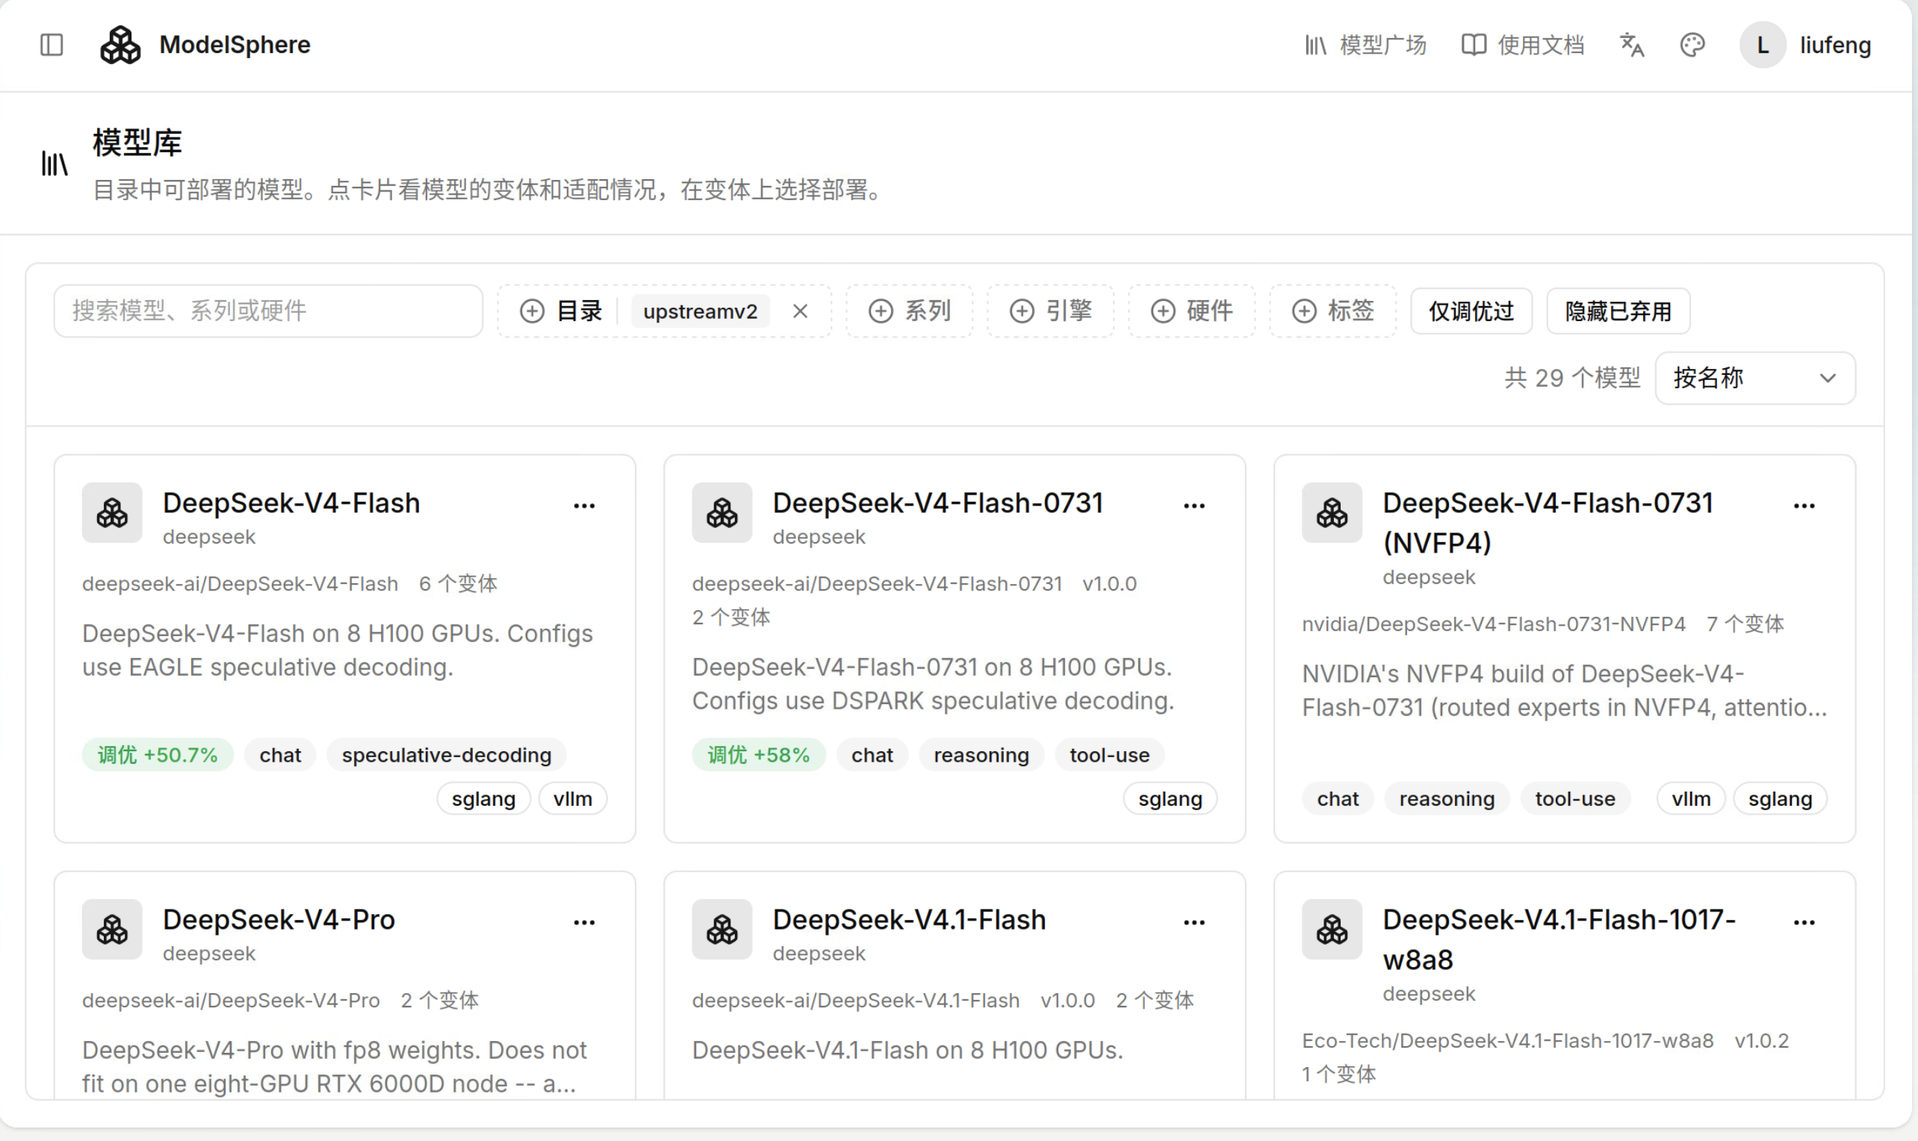
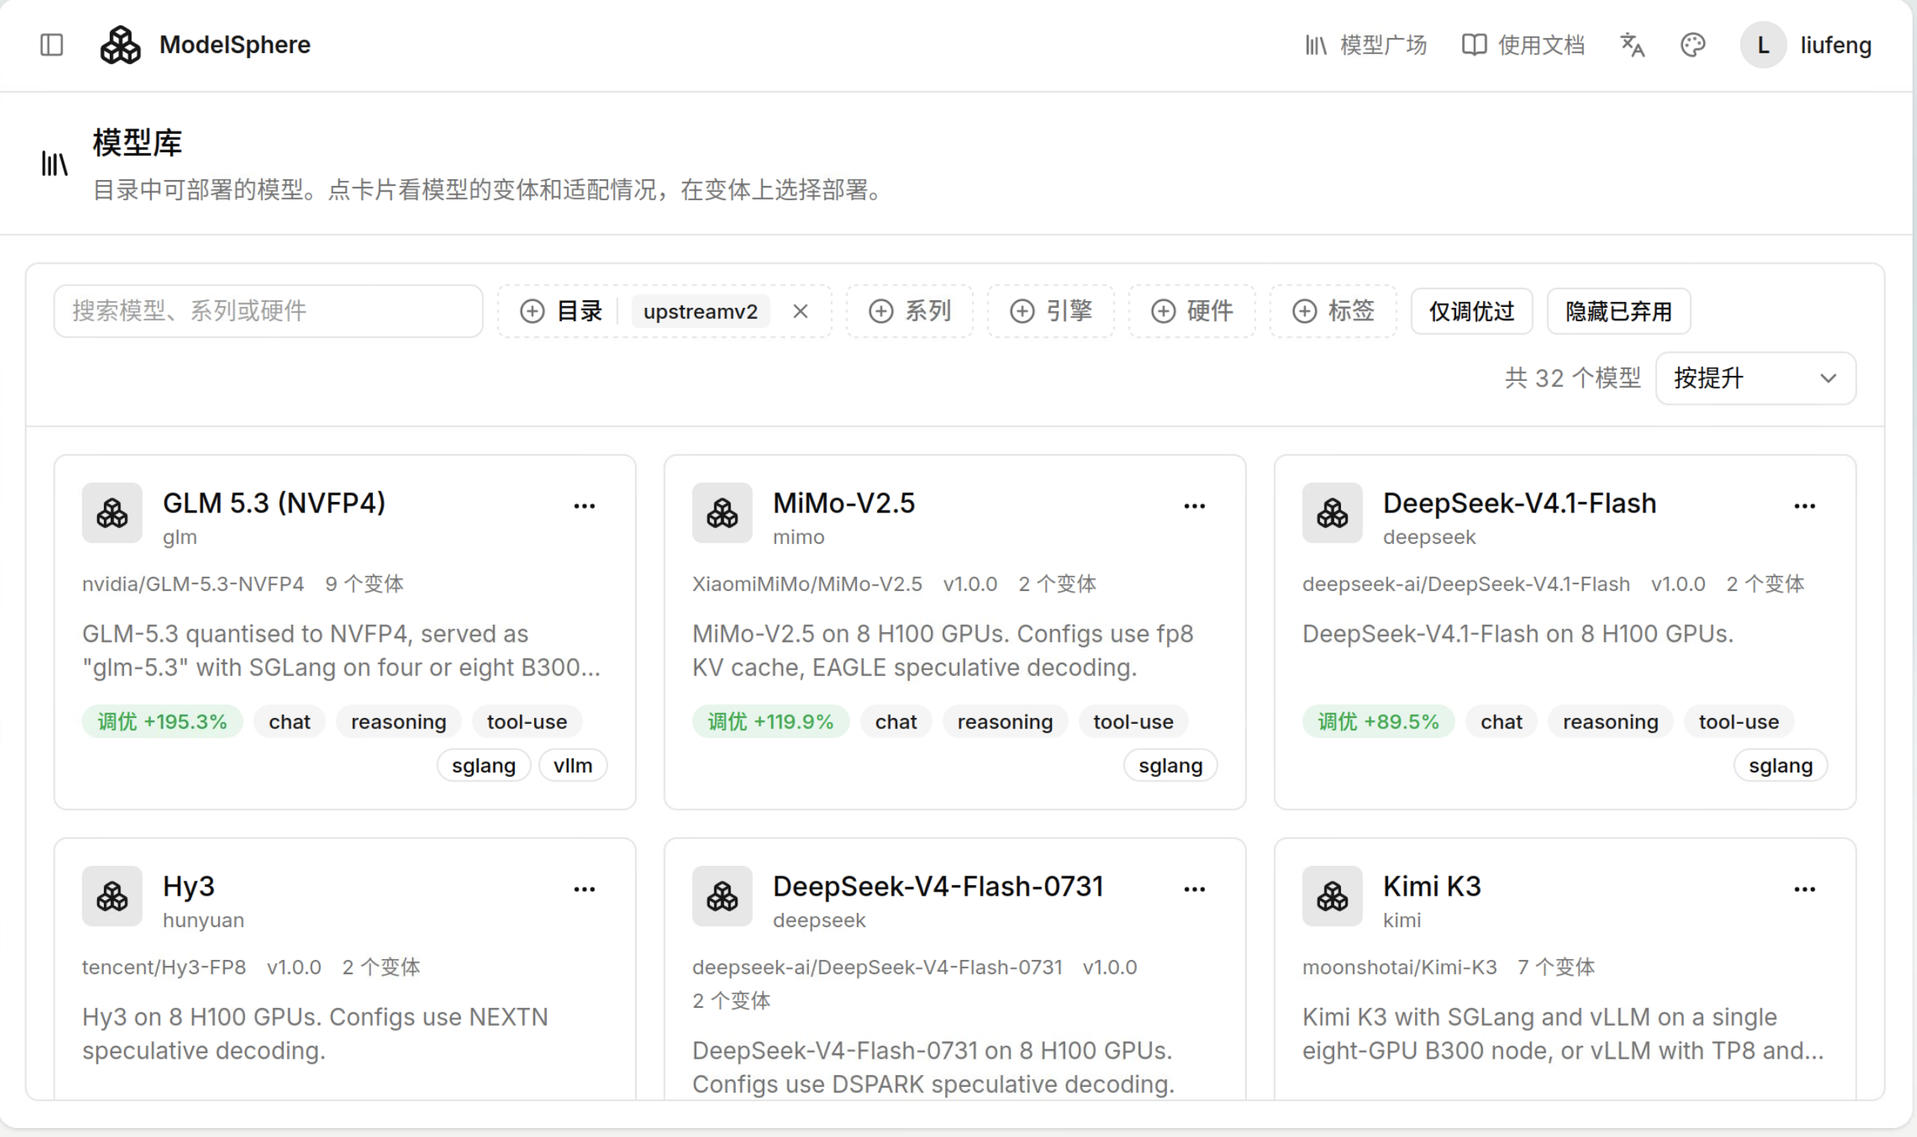
feat: refresh homepage showcase and community channels (#31)
* feat: add Zhihu channel and widen community cards

* feat: refresh homepage console showcase

---------

diff --git a/src/features/community/components.tsx b/src/features/community/components.tsx
@@ -192,6 +192,7 @@ export function CommunityHeader() {
   );
 }
 export function CommunityContent() {
+  const zhihuIcon = useBaseUrl('/community/zhihu.png');
   const groupQr = useBaseUrl('/community/wechat-group-qr.png');
   const officialAccountQr = useBaseUrl(
     '/community/wechat-official-account-qr.png',
@@ -929,6 +930,62 @@ export function CommunityContent() {
                         id: 'site.5581608eea5e',
                         message: '前往 GitHub 组织',
                       })}
+                    </span>
+                  </a>
+                </div>
+              </div>
+              <div className="bg-white p-6 rounded-2xl border border-slate-200 shadow-sm flex flex-col justify-between hover:border-sky-300 hover:shadow-md transition-all group">
+                <div className="flex flex-col gap-4">
+                  <div className="flex items-center justify-between pb-2 border-b border-slate-100">
+                    <a
+                      className="community-zhihu-icon"
+                      href="https://www.zhihu.com/column/c_2101327451146150340"
+                      target="_blank"
+                      rel="noopener noreferrer"
+                      aria-label={translate({
+                        id: 'community.zhihuOpen',
+                        message: '前往知乎专栏（新窗口打开）',
+                      })}
+                    >
+                      <img src={zhihuIcon} alt="知乎" width={40} height={40} />
+                    </a>
+                    <span className="px-2.5 py-0.5 rounded-full bg-sky-50 border border-sky-100 text-sky-700 font-label-caps text-xs font-semibold">
+                      {translate({
+                        id: 'community.zhihuBadge',
+                        message: '技术分享',
+                      })}
+                    </span>
+                  </div>
+                  <h3 className="font-headline-sm text-lg font-bold text-slate-900 mb-0.5">
+                    {translate({
+                      id: 'community.zhihuTitle',
+                      message: '知乎专栏',
+                    })}
+                  </h3>
+                  <p className="font-body-sm text-sm text-slate-600 leading-relaxed">
+                    {translate({
+                      id: 'community.zhihuDescription',
+                      message:
+                        '探索社区硬核技术分享内容，了解社区技术发展近况。',
+                    })}
+                  </p>
+                </div>
+                <div className="pt-5 border-t border-slate-100 mt-4">
+                  <a
+                    className="w-full inline-flex items-center justify-center gap-1.5 py-2 px-3 rounded-xl bg-sky-600 text-white hover:bg-sky-700 transition-all font-body-sm text-xs font-semibold shadow-sm"
+                    href="https://www.zhihu.com/column/c_2101327451146150340"
+                    target="_blank"
+                    rel="noopener noreferrer"
+                  >
+                    {translate({
+                      id: 'community.zhihuVisit',
+                      message: '前往知乎专栏',
+                    })}
+                    <span
+                      className="material-symbols-outlined text-[15px]"
+                      aria-hidden="true"
+                    >
+                      {'arrow_forward'}
                     </span>
                   </a>
                 </div>

diff --git a/tests/e2e/community.spec.ts b/tests/e2e/community.spec.ts
@@ -157,7 +157,31 @@ test('community preserves approved copy and the four-section order without the c
     '官方微信公众号',
     '微信技术交流群',
     'GitHub 开源社区',
+    '知乎专栏',
   ]);
+  const zhihu = channels.getByRole('link', {
+    name: '前往知乎专栏（新窗口打开）',
+    exact: true,
+  });
+  await expect(zhihu).toHaveAttribute(
+    'href',
+    'https://www.zhihu.com/column/c_2101327451146150340',
+  );
+  await expect(zhihu).toHaveAttribute('target', '_blank');
+  await expect(zhihu.getByRole('img')).toHaveAttribute(
+    'src',
+    '/community/zhihu.png',
+  );
+  await expect
+    .poll(() =>
+      zhihu
+        .getByRole('img')
+        .evaluate((image) => (image as HTMLImageElement).naturalWidth),
+    )
+    .toBe(240);
+  await expect(channels).toContainText(
+    '探索社区硬核技术分享内容，了解社区技术发展近况。',
+  );
   const officialQr = channels.getByRole('img', {
     name: '模域 ModelSphere 微信公众号二维码',
     exact: true,
@@ -333,7 +357,7 @@ test('community stays readable on mobile, tablet and desktop in both themes', as
             (grid) =>
               getComputedStyle(grid).gridTemplateColumns.split(' ').length,
           ),
-      ).toBe(width >= 768 ? 3 : 1);
+      ).toBe(width >= 1280 ? 4 : width >= 768 ? 2 : 1);
       if (width === 320) {
         await page
           .getByRole('link', { name: '申请加入生态共建', exact: true })

diff --git a/src/components/HomeSections/index.tsx b/src/components/HomeSections/index.tsx
@@ -803,32 +803,13 @@ export function Benchmarks() {
                 alt={translate({
                   id: 'home.deployment.screenshotAlt',
                   message:
-                    'ModelSphere Console 模型广场：按提升排序，浏览模型和部署变体，DeepSeek 模型卡片展示调优 +50.7%、+58% 的性能提升标签。',
+                    'ModelSphere Console 模型库：按提升排序，浏览模型、部署变体与调优收益标签。',
                 })}
-                width={2568}
-                height={1528}
+                width={2566}
+                height={1522}
                 loading="lazy"
                 decoding="async"
               />
-              {/* Match the reviewed sort label without re-encoding the capture. */}
-              <svg
-                className="home-console-sort-label"
-                viewBox="0 0 2568 1528"
-                aria-hidden="true"
-                focusable="false"
-              >
-                <path fill="#fff" d="M2230 480h198v53h-198z" />
-                <text
-                  x="2240"
-                  y="508"
-                  dominantBaseline="middle"
-                  fontFamily="system-ui, sans-serif"
-                  fontSize="30"
-                  fill="#171717"
-                >
-                  {'按提升排序'}
-                </text>
-              </svg>
             </div>
           </div>
         </figure>

diff --git a/tests/e2e/home-sections.spec.ts b/tests/e2e/home-sections.spec.ts
@@ -91,11 +91,7 @@ for (const [id, expected] of Object.entries(modules)) {
       const screenshot = section.getByRole('img');
       await screenshot.scrollIntoViewIfNeeded();
       await expect(screenshot).toBeVisible();
-      const sortLabel = section.locator('.home-console-sort-label');
-      await expect(sortLabel).toHaveText('按提升排序');
-      expect(await sortLabel.boundingBox()).toEqual(
-        await screenshot.boundingBox(),
-      );
+      await expect(section.locator('.home-console-sort-label')).toHaveCount(0);
       await expect(screenshot).toHaveAttribute(
         'src',
         '/screenshots/console-model-catalog.png',
@@ -105,8 +101,8 @@ for (const [id, expected] of Object.entries(modules)) {
           screenshot.evaluate(
             (image: HTMLImageElement) =>
               image.complete &&
-              image.naturalWidth === 2568 &&
-              image.naturalHeight === 1528,
+              image.naturalWidth === 2566 &&
+              image.naturalHeight === 1522,
           ),
         )
         .toBe(true);

diff --git a/tests/pages/community.spec.ts b/tests/pages/community.spec.ts
@@ -11,7 +11,7 @@ test('community preserves source layout and local navigation under the Pages pre
   await page.evaluate(() => document.fonts.ready);
   await expect(
     page.locator('#community-channels [data-home-pair] > [data-home-pending]'),
-  ).toHaveCount(3);
+  ).toHaveCount(4);
   await expect(
     page.getByRole('img', { name: '微信技术交流群入群二维码' }),
   ).toHaveAttribute('src', `${prefix}community/wechat-group-qr.png`);
@@ -33,6 +33,11 @@ test('community preserves source layout and local navigation under the Pages pre
     'href',
     `${prefix}community/wechat-official-account-qr.png`,
   );
+  await expect(
+    page
+      .getByRole('link', { name: '前往知乎专栏（新窗口打开）', exact: true })
+      .getByRole('img'),
+  ).toHaveAttribute('src', `${prefix}community/zhihu.png`);
   for (const [name, file] of [
     ['范式智能 PHANCY Logo', 'phancy-logo.png'],
     ['睿思智联 RiseUnion Logo', 'riseunion-logo.svg'],

diff --git a/src/features/community/styles.css b/src/features/community/styles.css
@@ -2368,8 +2368,28 @@ html[data-theme='dark'] [data-community-design] [class*='bg-gradient-to-r'] {
   display: block;
   object-fit: contain;
 }
+#community-channels > .max-w-6xl {
+  max-width: 90rem;
+}
+[data-community-design] .community-zhihu-icon {
+  display: inline-flex;
+  align-items: center;
+  justify-content: center;
+  width: 44px;
+  height: 44px;
+  border-radius: 12px;
+}
+[data-community-design] .community-zhihu-icon img {
+  display: block;
+  object-fit: contain;
+}
 @media (min-width: 768px) {
   [data-community-design] .community-channels-grid {
-    grid-template-columns: repeat(3, minmax(0, 1fr));
+    grid-template-columns: repeat(2, minmax(0, 1fr));
+  }
+}
+@media (min-width: 1280px) {
+  [data-community-design] .community-channels-grid {
+    grid-template-columns: repeat(4, minmax(0, 1fr));
   }
 }

diff --git a/src/components/HomeSections/styles.css b/src/components/HomeSections/styles.css
@@ -73,20 +73,17 @@
   position: relative;
   width: 100%;
   min-width: 900px;
-}
-[data-home-design] .home-console-sort-label {
-  position: absolute;
-  inset: 0;
-  width: 100%;
-  height: 100%;
-  pointer-events: none;
+  /* Keep only the rounded window interior of the 2566 × 1522 capture. */
+  aspect-ratio: 2558 / 1508;
+  overflow: hidden;
+  border-radius: 1% / 1.7%;
 }
 [data-home-design] .home-console-screenshot {
-  width: 100%;
+  position: absolute;
+  inset: 0;
+  width: calc(100% * 2566 / 2558);
   max-width: none;
   height: auto;
-  /* Hide the capture's baked-in shadow without re-encoding the original PNG. */
-  clip-path: inset(0 0.5% 1.25% 0 round 12px);
 }
 [data-home-design] :is(tr, th, td) {
   border-width: 0;

diff --git a/tests/e2e/i18n.spec.ts b/tests/e2e/i18n.spec.ts
@@ -177,6 +177,18 @@ test('language switch is accessible on mobile and English pages render without s
   await page.setViewportSize({ width: 320, height: 844 });
   await page.goto(site('en/community'));
   await expect(
+    page.getByRole('heading', { name: 'Zhihu column', exact: true }),
+  ).toBeVisible();
+  await expect(
+    page.getByRole('link', {
+      name: 'Visit the Zhihu column (opens in a new window)',
+      exact: true,
+    }),
+  ).toHaveAttribute(
+    'href',
+    'https://www.zhihu.com/column/c_2101327451146150340',
+  );
+  await expect(
     page.getByRole('heading', { name: 'Official WeChat account', exact: true }),
   ).toBeVisible();
   await expect(

diff --git a/docs/design/page-contracts.md b/docs/design/page-contracts.md
@@ -85,14 +85,14 @@ Catalog 的目录、详情、配方历史和报告绑定其数据版本；门户
 | --- | --- | --- | --- |
 | 1 `hero` | 左对齐定位标题、简介、技术标签、系统架构概览 | 页面 h1、ActionLink、DiagramFrame | 必填；三个入口为 `docsQuickstartHref`（真实内容就绪后）、已核实 GitHub 源码仓库、`/models`；首屏完整直出，首页文字按 D13 入场、拓扑正文按 D14 一次纵向揭示；入口、拓扑标题及上方三卡静态可用，数据与布局稳定 |
 | 2 `comparison` | 4 项能力：生产部署、异构硬件、快速调优部署、持续优化；各含标题、说明与能力面板 | SectionHeading、4 个 FeatureCard | 必填；桌面/平板 2×2，手机纵排；不增加独立四项 Tab |
-| 3 `benchmarks` | 性能调优模型 Day-0 部署；用户提供的 Console 模型广场截图 | SectionHeading、完整产品截图 | 核心特性首项；以 2568×1528 原始 PNG 展示部署变体与调优收益标签，不压缩或转换图片，不显示图片下方说明及链接；窄屏可横向滚动，浅深主题保留原图，不将截图标签作为统一性能承诺 |
+| 3 `benchmarks` | 性能调优模型 Day-0 部署；用户提供的 Console 模型库截图 | SectionHeading、完整产品截图 | 核心特性首项；以 2566×1522 原始 PNG 展示部署变体与调优收益标签，不压缩或转换图片；页面裁切至 2558×1508 的圆角窗口内部，隐藏四周阴影，不显示图片下方说明及链接；窄屏可横向滚动，浅深主题保留原图，不将截图标签作为统一性能承诺 |
 | 4 `fault-tolerance` | 集群级断流续写：异常探测、机器切换与接续回答；AI 对话与 4 步集群接力链路 | SectionHeading、3 个特性卡、AI 对话、接力步骤与动效 | 来源覆盖：Stitch `11190555543817321216`；文字和图标按稿，沿用当前首页 tokens；示例数值不作为实测证明或服务保证 |
 | 5 `qos-scaling` | ModelSphere 动态限流：静态限流、请求差异与动态并发对比；3 项收益 | SectionHeading、3 栏机制图、收益横栏 | 来源覆盖：Stitch `1186bfc660c6404da176e360aaa564e4`；保留既有静态限流图表，移除用户标出的三个量化标签；其余文案、卡片布局、箭头与曲线按稿，字体、字号与颜色使用当前首页预设 |
 | 6 `dynamic-scaling` | 算力动态扩缩容：全天负载趋势、10 张 GPU 与 8:2、6:4、2:8 分配场景 | SectionHeading、3 个特性卡、双模型堆叠面积图与 GPU 阵列 | 来源覆盖：Stitch `6217c9871bea457192cbcb39bb7e01ba`；沿用首页响应式及双主题，首屏伸缩链接指向本节 |
 | 7 `autotune-evolution` | 线上服务、流量收集、空闲算力调优、配置验证、自动上线的五步闭环 | SectionHeading、DiagramFrame、步骤说明 | 条件：有对应实现资料；标明适用范围，不把调优闭环当作请求执行流程 |
 | 8 `get-started` | 居中接入邀请与社区入口，手机纵排操作组 | CtaBlock | 必填邀请；真实快速开始就绪后使用 `docsQuickstartHref`，否则显示准备说明和 `/community` |
 
-Hero 只展示新版单张完整系统架构图，浅深主题表达相同信息并保持同一框尺寸；不预置监控标签、双 Tab、隐藏面板、Live UI 或轮播。核心特性首项使用用户提供的 Console 模型广场截图，资源位于 `static/screenshots/console-model-catalog.png`；按用户审阅意见，在页面中叠加“按提升排序”标签，原始 PNG 保持不变。首页不再设置独立 `features` 四项 Tab、`request-flow`、`audiences` 或推荐文章区块；架构页及其他页面的既定功能保留。
+Hero 只展示新版单张完整系统架构图，浅深主题表达相同信息并保持同一框尺寸；不预置监控标签、双 Tab、隐藏面板、Live UI 或轮播。核心特性首项使用用户提供的 Console 模型库截图，资源位于 `static/screenshots/console-model-catalog.png`；原图自带“按提升”标签，页面不再叠加排序文字，通过圆角容器裁切隐藏截图外侧阴影，原始 PNG 保持不变。首页不再设置独立 `features` 四项 Tab、`request-flow`、`audiences` 或推荐文章区块；架构页及其他页面的既定功能保留。
 
 首页核心内容背景依次为能力概览白、Day-0 部署灰、断流续写白、QoS/SLO 灰、Tuning Agent 白，浅深主题使用对应语义色。
 
@@ -220,7 +220,7 @@ Catalog 模型详情的身份参数为 `modelId`，配方页为 `modelId` 和 `r
 | 1 `community-hero` | 面包屑、生态标签、主标题与说明 | 原稿 44px 桌面标题、浅紫底色和天蓝强调；不补回已删除的三张生态卡片 |
 | 2 `community-maintainers` | 五位维护者、单位、GitHub 账号；桌面三列 | 姓名使用 GitHub 公开 Name，有值显示姓名、无值或仅空白时显示账号 ID；在 `src/features/community/components.tsx` 的 `maintainerNames` 中维护；原稿的“第四范式 (Paradigm)”统一显示为“范式智能（Phancy）”，链接与显示账号对应；不添加头像或维护者 |
 | 3 `community-partners` | 两家发起单位与共建横幅 | 卡片只保留联合发起单位标记、Logo 与名称，移除英文副标题与合作介绍；“申请加入生态共建”弹出已有微信群二维码，支持关闭按钮、Esc、点击遮罩关闭，禁用脚本时直接打开二维码原图；不使用未核实邮箱 |
-| 4 `community-channels` | 公众号、微信群、GitHub 三列卡片 | 公众号和微信群使用用户提供的原始二维码，可打开原图；手机纵排 |
+| 4 `community-channels` | 公众号、微信群、GitHub、知乎四张卡片 | 公众号和微信群使用用户提供的原始二维码，可打开原图；知乎图标跳转专栏；桌面四列一行（渠道区最大宽度 1440px）、平板两列、手机纵排 |
 
 该路由复用全站 Header；首页、模型目录、文档指南、博客洞见和社区生态统一复用社区版 Footer。字体、图标均为本地资源；社区样式限于 `data-community-design`，保留移动导航、主题继承和减少动效支持。不展示没有真实数据来源的 Star / Fork 数量、播放量、集群状态或 Footer 遥测指标；原始设计稿中的示例数字与状态不作为可发布内容。“线上技术分享与社区例会日历”整个区块及 Footer 的“线上技术日历”入口已按用户要求移除，预览与正式页面均不展示该区块或空状态。活动数据格式与校验工具保留，维护说明见 [社区活动维护](../development/community-maintenance.md)。
 

diff --git a/docs/development/community-maintenance.md b/docs/development/community-maintenance.md
@@ -1,6 +1,6 @@
 # 社区例会与活动维护
 
-社区交流区按 Stitch 设计展示官方微信公众号、微信技术交流群、GitHub 三张卡片，桌面三列、手机纵排。公众号二维码使用用户在 2026-11-04 提供的原始 PNG，保存为 `static/community/wechat-official-account-qr.png`；微信群二维码使用用户在 2026-10-27 提供的原始 PNG，保存为 `static/community/wechat-group-qr.png`。更换时替换对应文件并重新构建发布，图片保留白色静区，不裁剪或重绘。两张二维码均可打开原图，供微信识别；“扫码加入技术交流微信群”入口继续指向微信群二维码。
+社区交流区按 Stitch 设计展示官方微信公众号、微信技术交流群、GitHub、知乎专栏四张卡片，桌面四列一行（渠道区最大宽度 1440px）、平板两列、手机纵排。知乎专栏使用用户提供的图标 `static/community/zhihu.png`，链接至 `https://www.zhihu.com/column/c_2101327451146150340`，在新窗口打开。公众号二维码使用用户在 2026-11-04 提供的原始 PNG，保存为 `static/community/wechat-official-account-qr.png`；微信群二维码使用用户在 2026-10-27 提供的原始 PNG，保存为 `static/community/wechat-group-qr.png`。更换时替换对应文件并重新构建发布，图片保留白色静区，不裁剪或重绘。两张二维码均可打开原图，供微信识别；“扫码加入技术交流微信群”入口继续指向微信群二维码。
 
 “申请加入生态共建”使用同一张微信群二维码弹窗，替代未经核实的邮件入口；关闭按钮、Esc 与点击遮罩均可关闭并返回触发入口，无脚本时直接打开原图。发起单位卡片只保留标记、Logo 和名称。全站页脚右侧按浏览网站、文档与上手、社区参与三组组织，保留五个主栏目，补充快速开始、GitHub、技术交流群；快速开始沿用 Header 的可用目标，交流群链接到 `community-channels` 区块。
 
